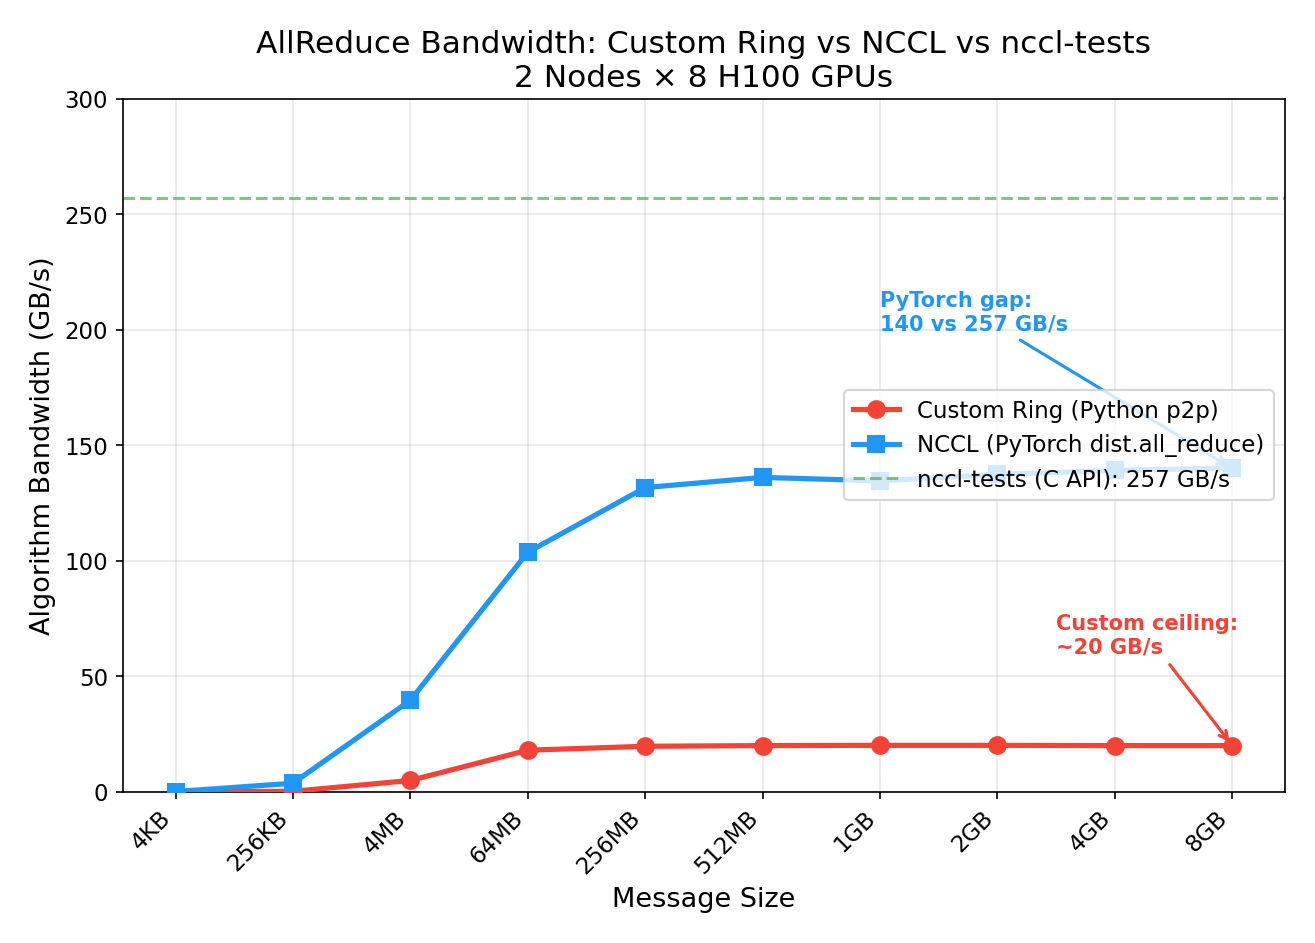
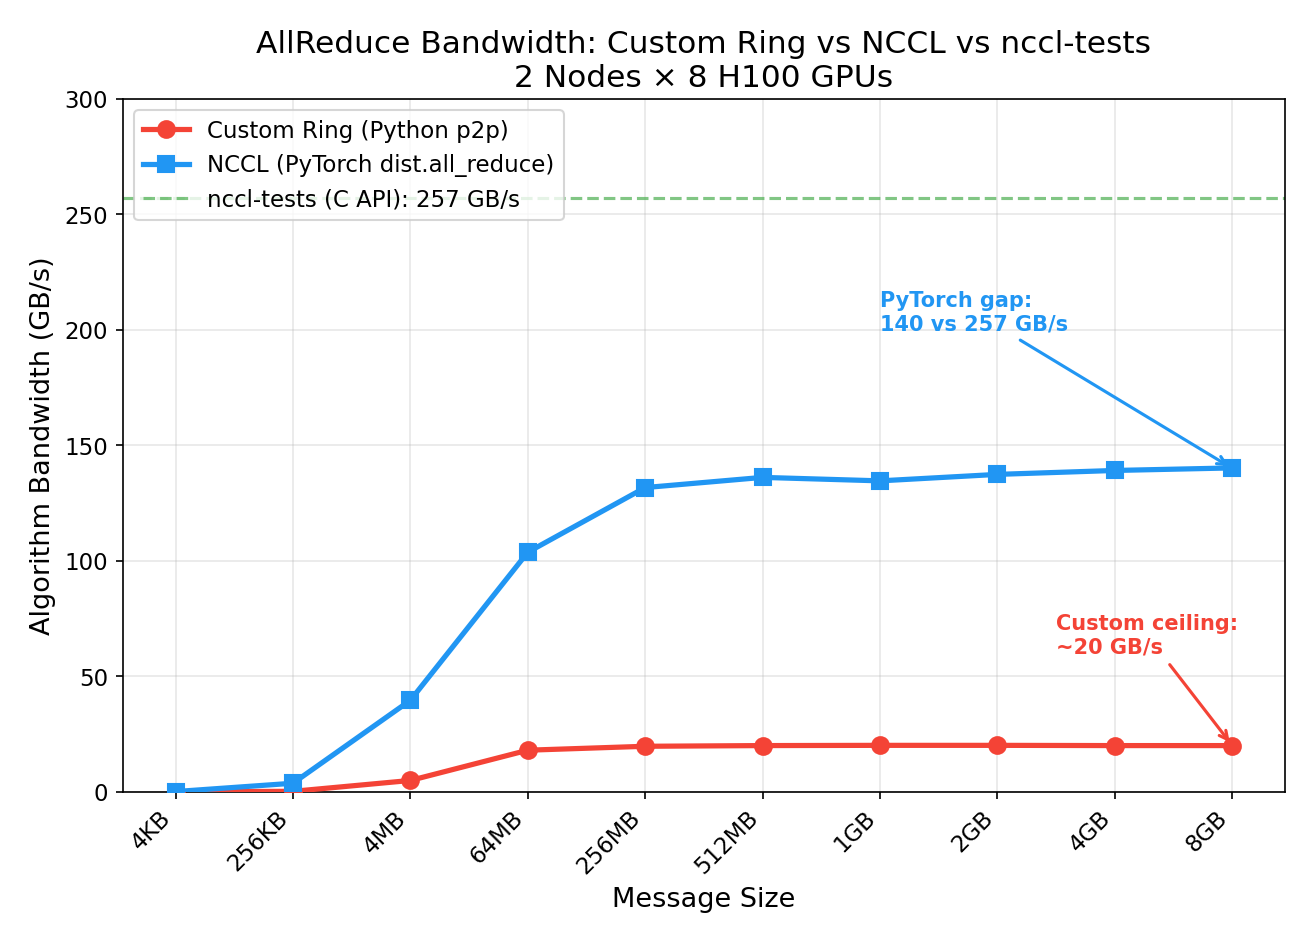
Fix allreduce blog: update title, fix fig2 legend overlap

Changed region(s): [[0.0935, 0.123, 0.4365, 0.246], [0.6236, 0.3998, 0.9665, 0.5228]]

diff --git a/_posts/2026-03-17-ring-allreduce-vs-nccl.md b/_posts/2026-03-17-ring-allreduce-vs-nccl.md
@@ -1,6 +1,6 @@
 ---
 layout: single
-title: "Implementing Ring AllReduce from Scratch and Benchmarking Against NCCL"
+title: "Experiments on NCCL Ring vs Tree"
 author_profile: false
 ---
 
